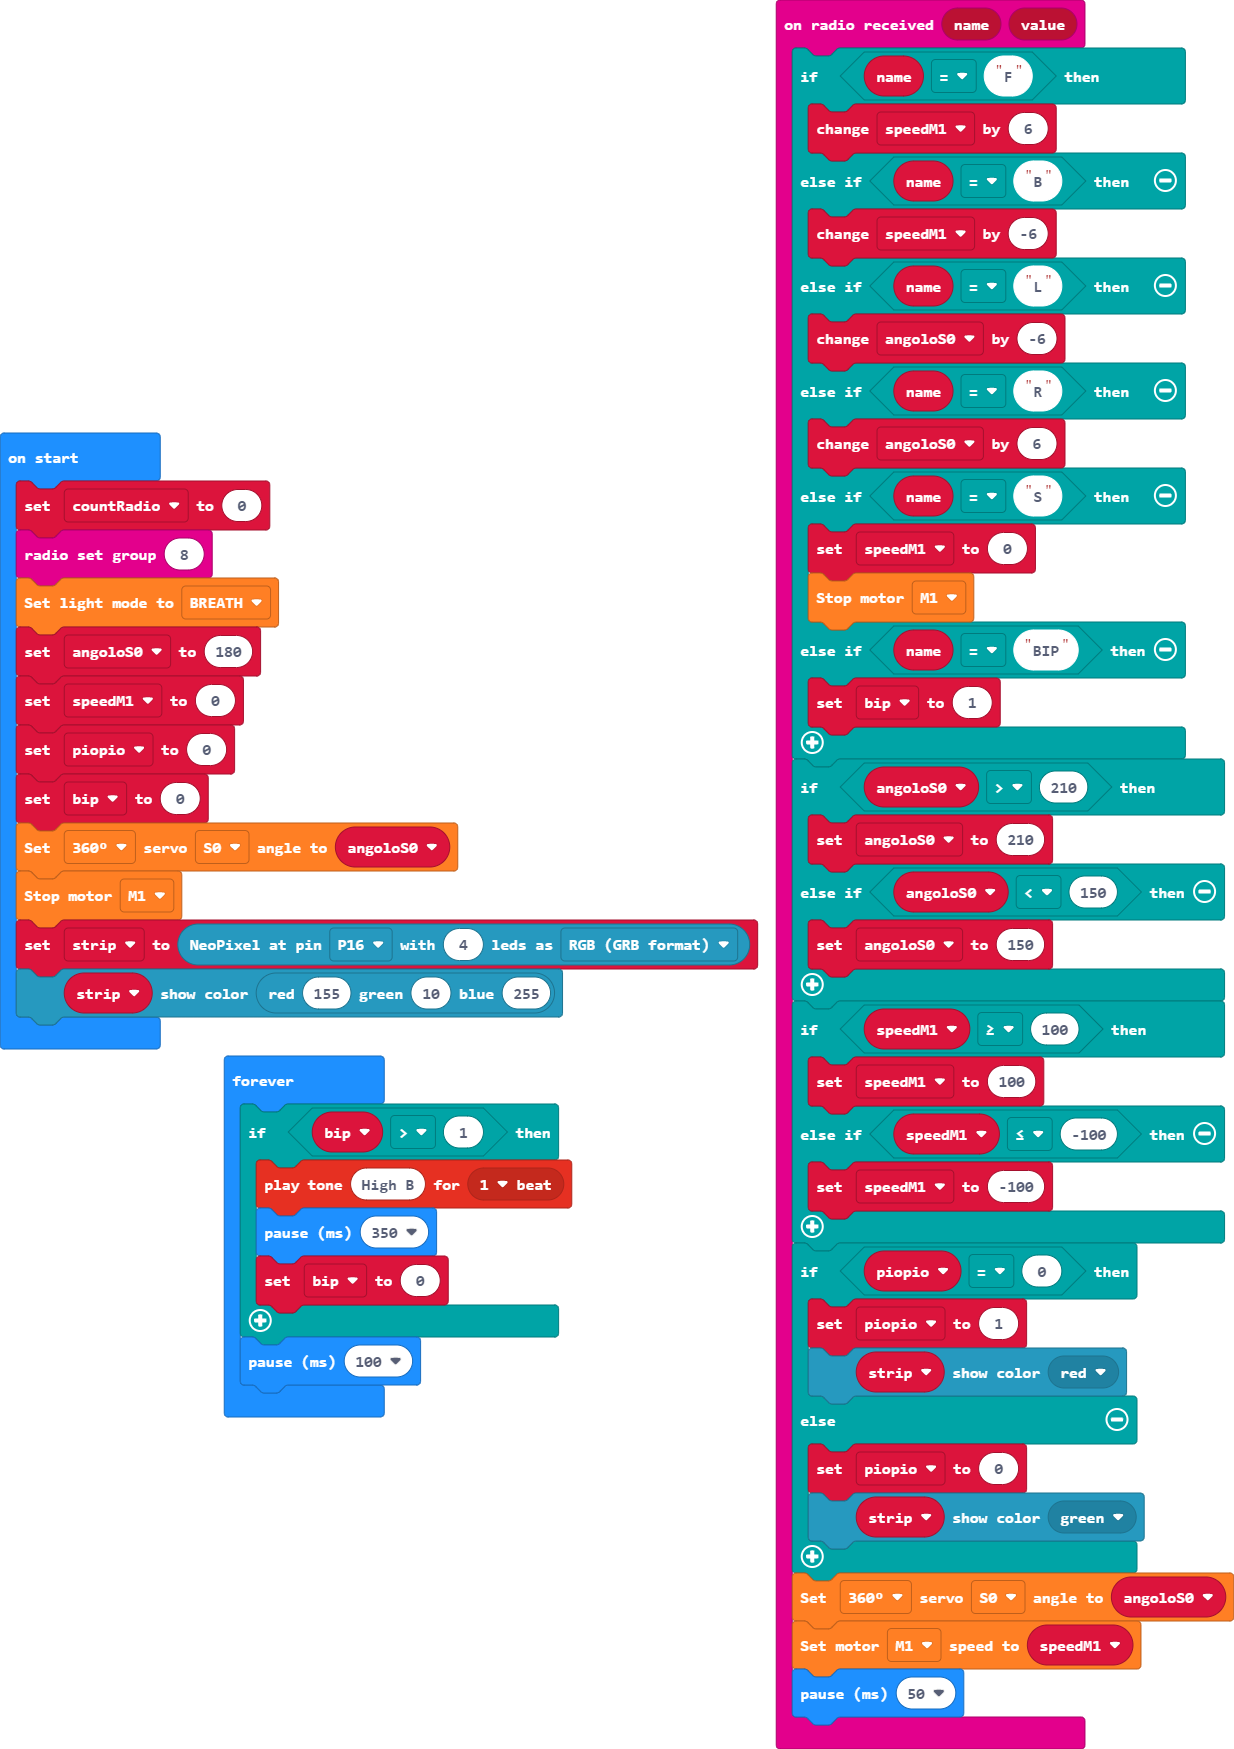
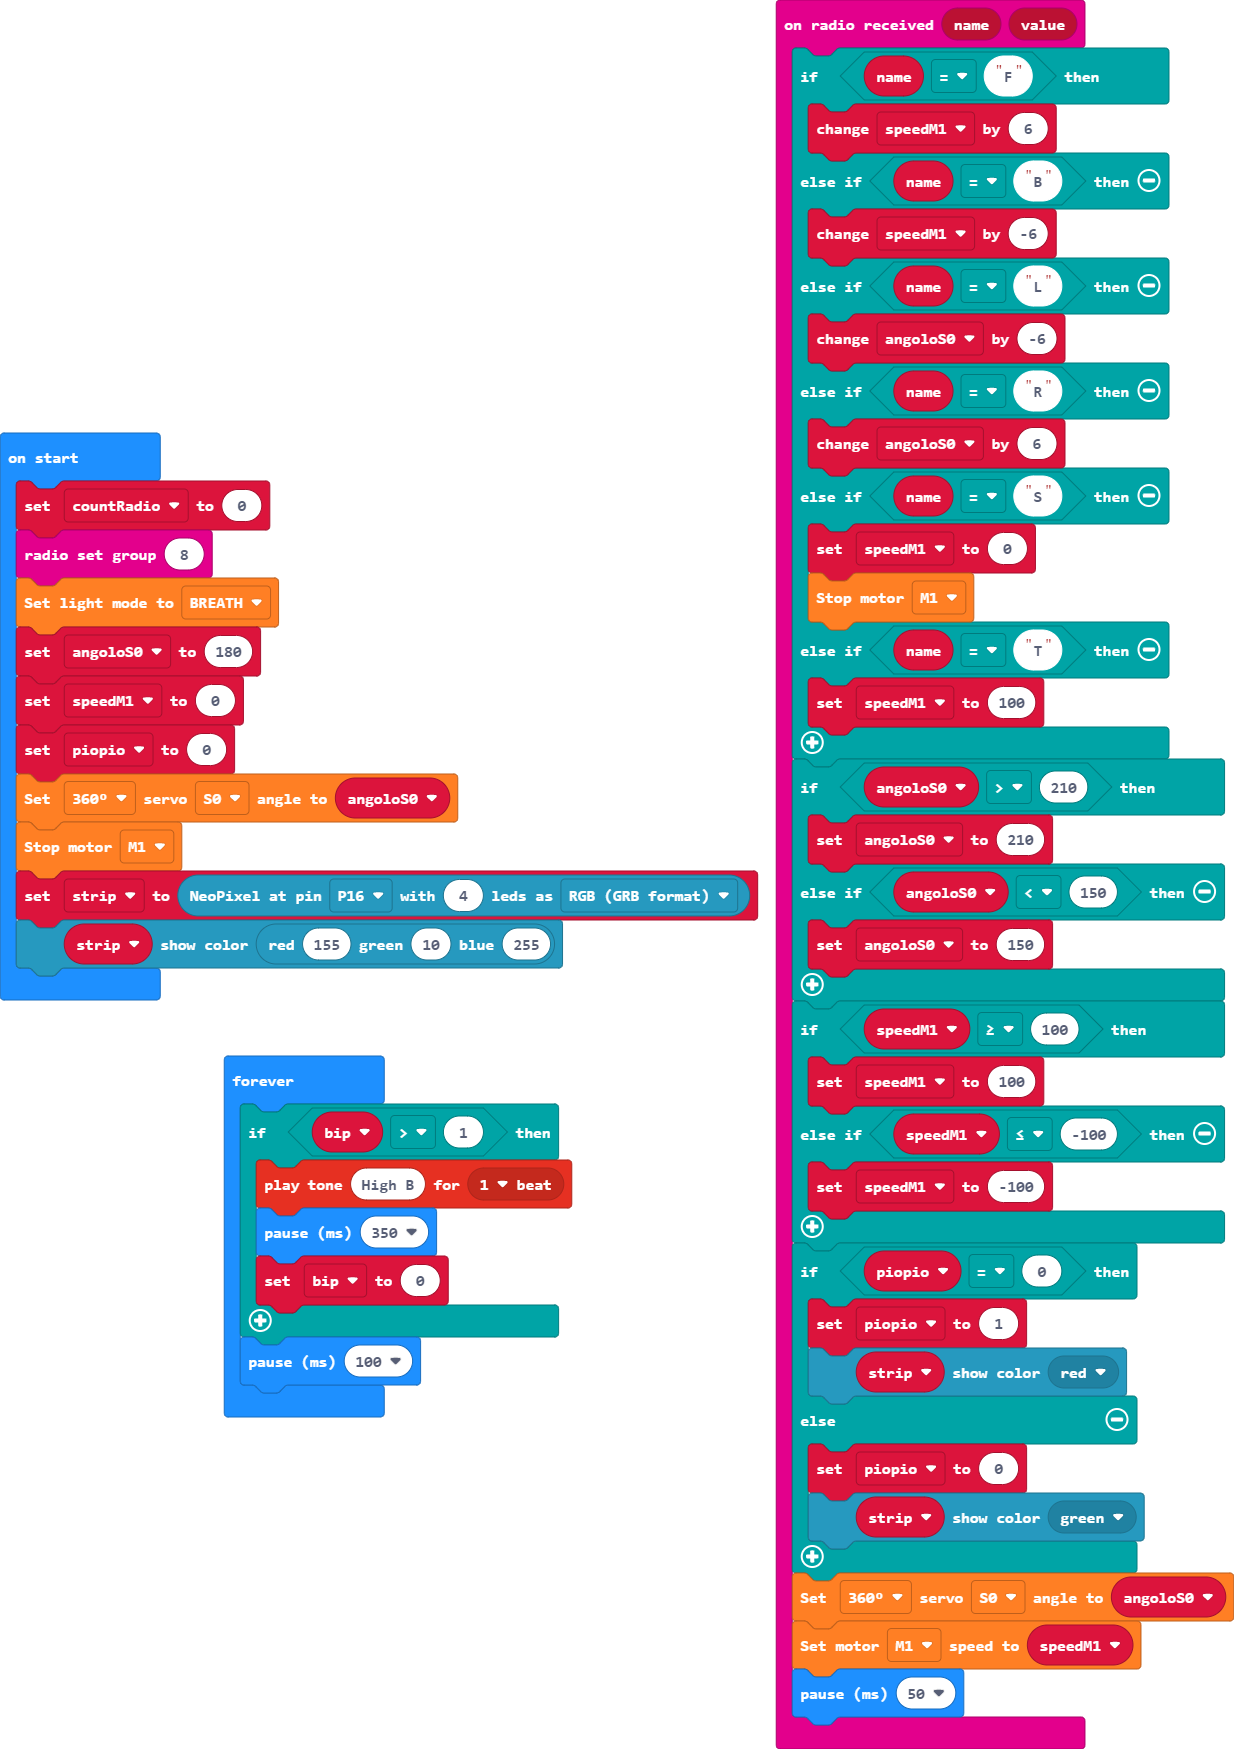
Update main.blocks, main.ts

diff --git a/main.ts b/main.ts
@@ -10,8 +10,8 @@ radio.onReceivedValue(function (name, value) {
     } else if (name == "S") {
         speedM1 = 0
         wuKong.stopMotor(wuKong.MotorList.M1)
-    } else if (name == "BIP") {
-        bip = 1
+    } else if (name == "T") {
+        speedM1 = 100
     }
     if (angoloS0 > 210) {
         angoloS0 = 210
@@ -34,8 +34,8 @@ radio.onReceivedValue(function (name, value) {
     wuKong.setMotorSpeed(wuKong.MotorList.M1, speedM1)
     basic.pause(50)
 })
-let strip: neopixel.Strip = null
 let bip = 0
+let strip: neopixel.Strip = null
 let piopio = 0
 let speedM1 = 0
 let angoloS0 = 0
@@ -45,7 +45,6 @@ wuKong.setLightMode(wuKong.LightMode.BREATH)
 angoloS0 = 180
 speedM1 = 0
 piopio = 0
-bip = 0
 wuKong.setServoAngle(wuKong.ServoTypeList._360, wuKong.ServoList.S0, angoloS0)
 wuKong.stopMotor(wuKong.MotorList.M1)
 strip = neopixel.create(DigitalPin.P16, 4, NeoPixelMode.RGB)
